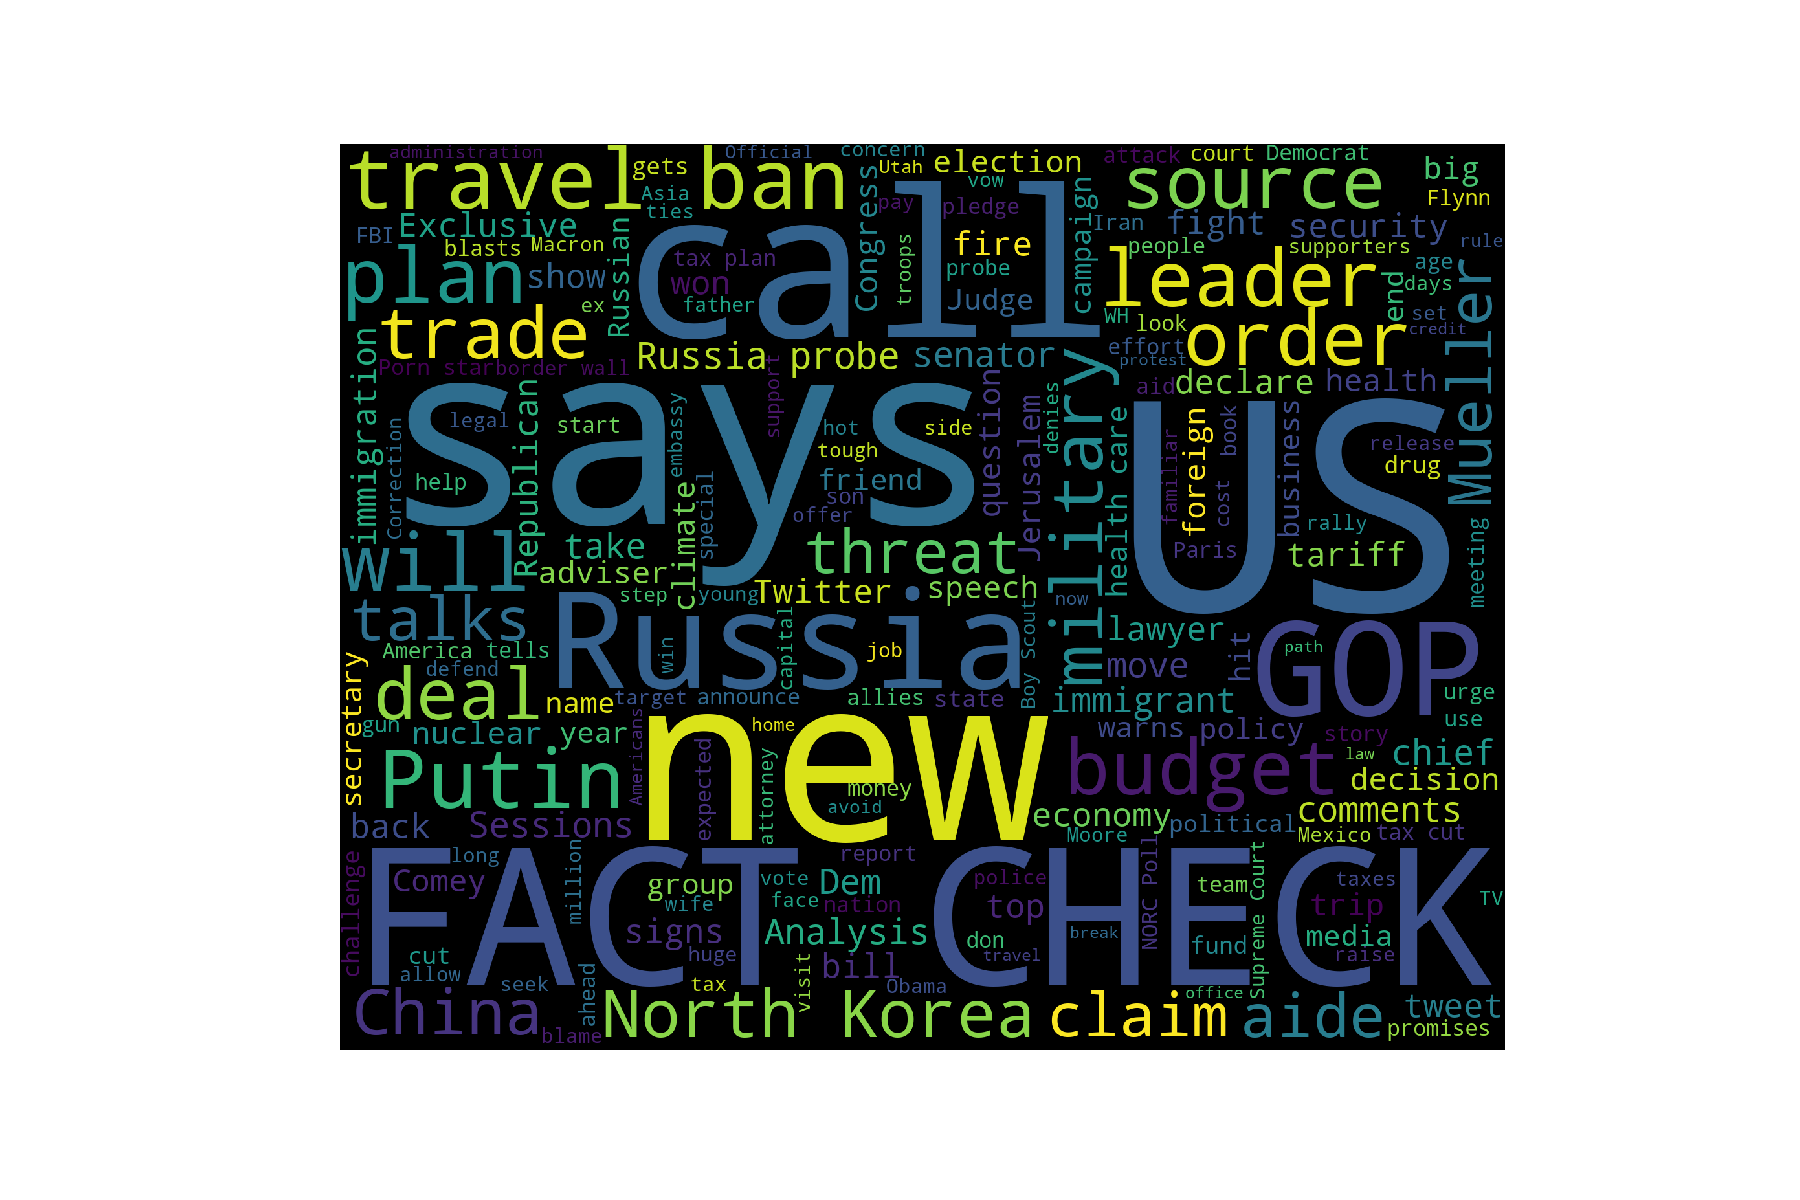
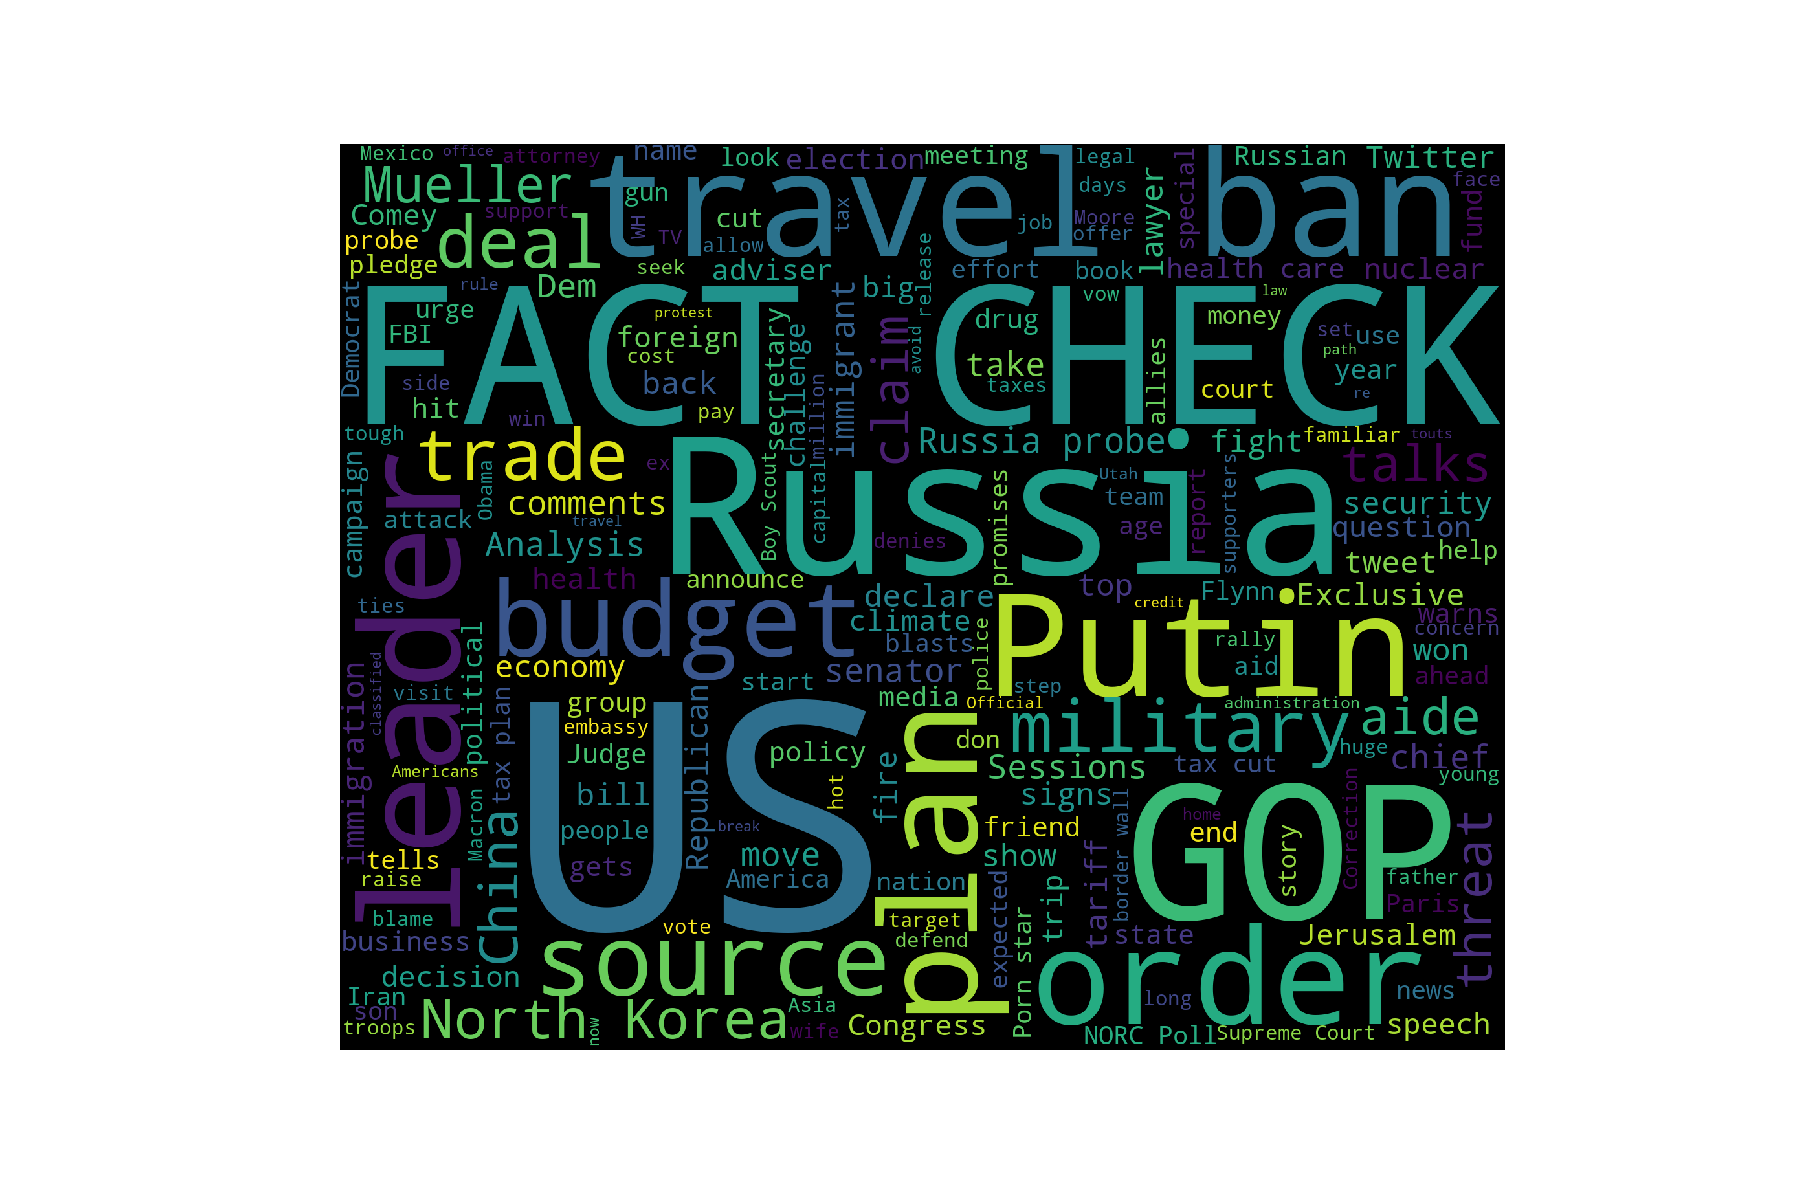
Modifies stop words.

Changed region(s): [[0.1867, 0.1233, 0.84, 0.8633]]

diff --git a/ParseRCPForData.py b/ParseRCPForData.py
@@ -51,8 +51,10 @@ def modify_dates_to_contain_year(date_data, latest_year):
     year_modified    = False
     ##Desired format YYYY-MM-DD
     for dates in date_data:
-        date_list = dates.split()
-        date_list = [date_list[0], date_list[2]]
+        #date_list = dates.split()
+        #date_list = [date_list[0], date_list[2]]
+        ##Replace the - between our data, and split the data.
+        date_list = dates.replace('-','').split()
         #item 1 in our dateList is our start poll, 2 is our end poll
         for curr_num, month_day in enumerate(date_list):
             month_day = month_day.split('/')
@@ -85,6 +87,7 @@ def modify_dates_to_contain_year(date_data, latest_year):
     return polling_dates
 
 def build_google_query(service, query, start_date, end_date, num_requests):
+    ##This is the datrange format that the google CSE api expects it
     date_range = "date:r:" + start_date + ":" + end_date
     ##may need start to limit
     ##num requests defaults to 10 can be 1 through 10
@@ -208,7 +211,9 @@ if __name__ == "__main__":
                   'Jun', 'Jul', 'Aug', 'Sep', 'Oct', 
                   'Nov', 'Dec', 'say', 'said', 'talk', 
                   'latest', 'sign', 'first', 'wants', 
-                  'day', 'tell', 'second', 'Associated', 'Press']
+                  'day', 'tell', 'second', 'Associated', 
+                  'Press', 'new', 'will', 'call', 
+                  'times', 'local', 'one', 'says', 'calls']
     ##1st table in page index 0 is only recent polls, 2nd table index 1 is all data.
     table_index = 1
     latest_year = '2018'
